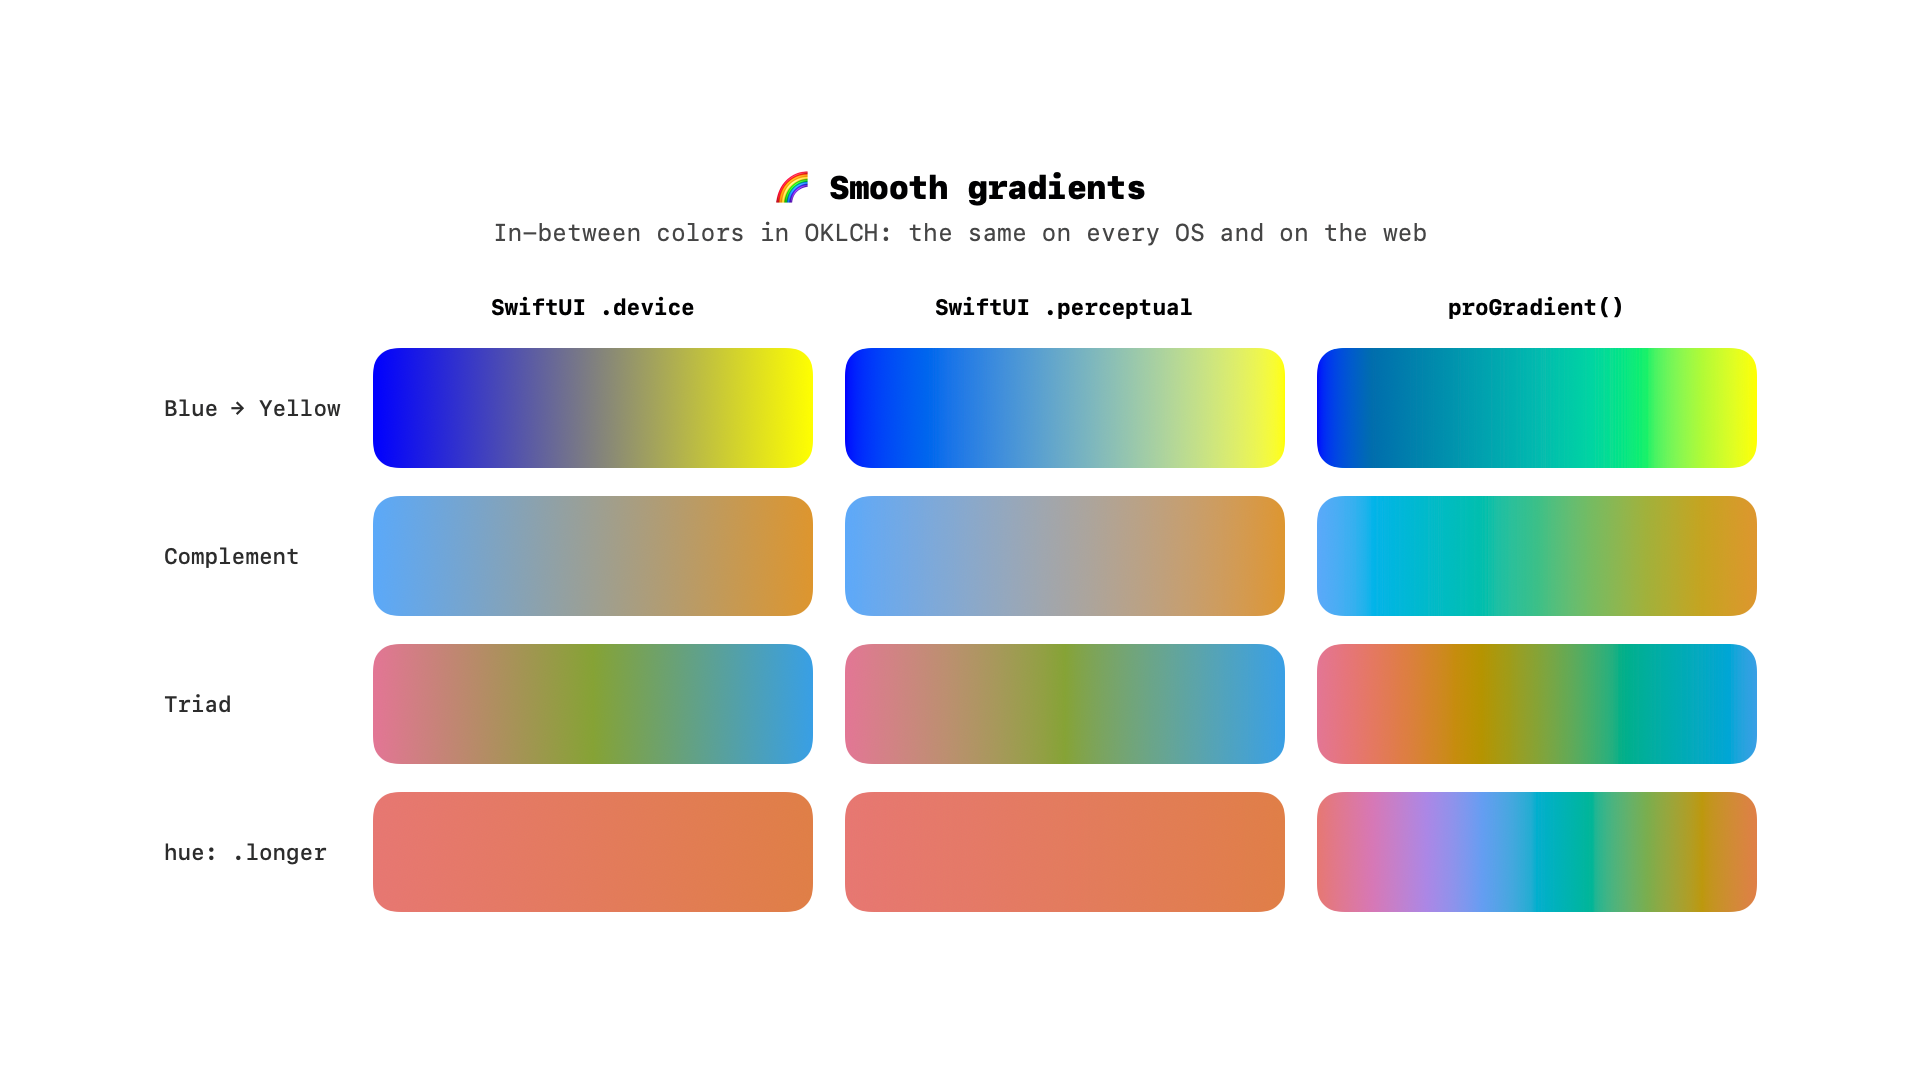
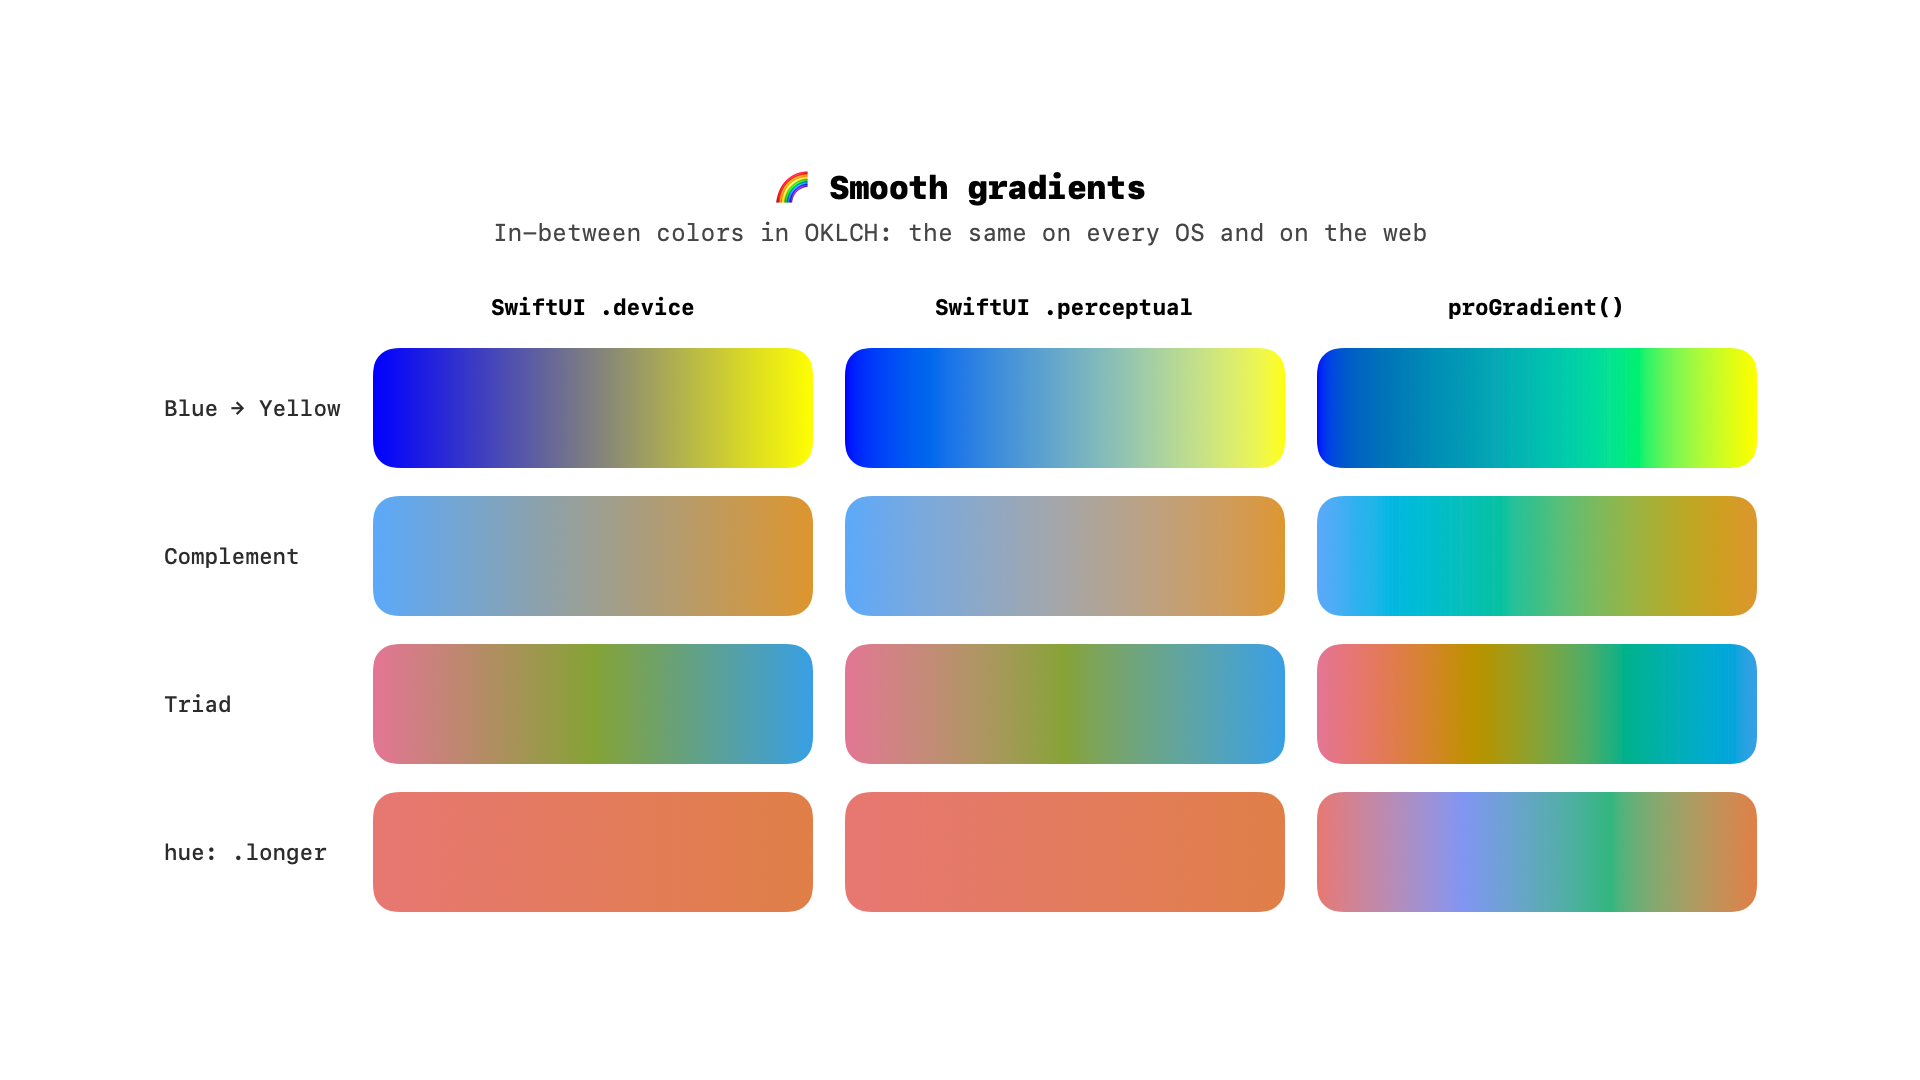
Show every gradient recipe; describe SwiftUI's gradients as measured
- gradient-recipes.png: each recipe (subtle, fade, tonal, analogous, wash,
  sheen, edgeHighlight) where you'd typically use it, plus a custom one,
  with the code under each. Shown above the recipes table.
- smooth-gradients.png re-rendered after the step and gamut changes.
- README and ProGradient: SwiftUI's default gradient on iOS is
  .perceptual, which measures as exactly OKLab on iOS 17, 18, 26 and 27
  (blue to yellow midpoint #6cabc7 in every simulator); only .device
  goes gray.

Changed region(s): [[0.75, 0.7333, 0.9062, 0.8556]]

diff --git a/Tests/ColorTokensKitTests/Marketing/Views/GradientRecipesView.swift b/Tests/ColorTokensKitTests/Marketing/Views/GradientRecipesView.swift
@@ -1,0 +1,115 @@
+import ColorTokensKit
+import SwiftUI
+
+extension ProGradient.Recipe {
+    /// The custom recipe shown in the last tile.
+    static var deepen: Self {
+        Self { [$0, $0.darken(by: 4)] }
+    }
+}
+
+/// README image: every gradient recipe, shown where you'd typically use it.
+struct GradientRecipesView: View {
+    private let brand = Color.proViolet
+    private var accent: Color { brand._500.toColor() }
+
+    var body: some View {
+        VStack(spacing: 40) {
+            VStack(spacing: 12) {
+                Text("🎨 Gradient recipes")
+                    .font(.system(size: 32, weight: .black))
+                    .foregroundStyle(Color.foregroundPrimary)
+                Text("One color in, a gradient out")
+                    .font(.system(size: 24, weight: .regular))
+                    .foregroundStyle(Color.foregroundTertiary)
+            }
+
+            Grid(horizontalSpacing: 28, verticalSpacing: 32) {
+                GridRow {
+                    tile(".subtle", "accent.proGradient()") {
+                        Text("Continue")
+                            .font(.system(size: 26, weight: .bold))
+                            .foregroundStyle(.white)
+                            .padding(.horizontal, 48)
+                            .padding(.vertical, 20)
+                            .background(accent.proGradient(), in: Capsule())
+                    }
+                    tile(".fade", "accent.proRadialGradient(.fade)") {
+                        Circle()
+                            .fill(accent.proRadialGradient(.fade))
+                            .frame(width: 200, height: 200)
+                    }
+                    tile(".tonal", "brand.proGradient(.tonal)") {
+                        card(fill: AnyShapeStyle(brand.proGradient(.tonal)), text: .white)
+                    }
+                    tile(".analogous", "brand.proGradient(.analogous, …)") {
+                        card(fill: AnyShapeStyle(brand.proGradient(.analogous, from: .leading, to: .trailing)), text: .white)
+                    }
+                }
+                GridRow {
+                    tile(".wash", "brand.proGradient(.wash)") {
+                        card(fill: AnyShapeStyle(brand.proGradient(.wash)), text: brand._900.toColor())
+                    }
+                    tile(".sheen", "Color.white.proGradient(.sheen, …)") {
+                        Text("Upgrade")
+                            .font(.system(size: 26, weight: .bold))
+                            .foregroundStyle(.white)
+                            .padding(.horizontal, 48)
+                            .padding(.vertical, 20)
+                            .background(accent, in: Capsule())
+                            .overlay(Capsule().fill(Color.white.proGradient(.sheen, from: .topLeading, to: .bottomTrailing)))
+                    }
+                    tile(".edgeHighlight", "accent.proGradient(.edgeHighlight, …)") {
+                        RoundedRectangle(cornerRadius: 28)
+                            .fill(Color.white)
+                            .overlay(
+                                RoundedRectangle(cornerRadius: 28)
+                                    .strokeBorder(accent.proGradient(.edgeHighlight, from: .leading, to: .trailing), lineWidth: 5)
+                            )
+                            .frame(width: 300, height: 170)
+                    }
+                    tile("Your own", "brand.proGradient(.deepen)") {
+                        card(fill: AnyShapeStyle(brand.proGradient(.deepen)), text: .white)
+                    }
+                }
+            }
+        }
+        .fontDesign(.monospaced)
+        .padding(MarketingStyle.pagePadding)
+        .frame(maxWidth: .infinity, maxHeight: .infinity)
+        .background(Color.white)
+    }
+
+    private func tile(_ name: String, _ code: String, @ViewBuilder preview: () -> some View) -> some View {
+        VStack(spacing: 18) {
+            preview()
+                .frame(width: 360, height: 230)
+                .background(Color.proGray._100.toColor(), in: RoundedRectangle(cornerRadius: 32))
+            VStack(spacing: 6) {
+                Text(name)
+                    .font(.system(size: 24, weight: .bold))
+                    .foregroundStyle(Color.foregroundPrimary)
+                Text(code)
+                    .font(.system(size: 16, weight: .regular))
+                    .foregroundStyle(Color.foregroundTertiary)
+            }
+        }
+    }
+
+    private func card(fill: AnyShapeStyle, text: Color) -> some View {
+        RoundedRectangle(cornerRadius: 28)
+            .fill(fill)
+            .frame(width: 300, height: 170)
+            .overlay(alignment: .bottomLeading) {
+                Text("Mega")
+                    .font(.system(size: 28, weight: .black))
+                    .foregroundStyle(text)
+                    .padding(24)
+            }
+    }
+}
+
+#Preview {
+    GradientRecipesView()
+        .frame(width: ImageSize.width, height: ImageSize.height)
+}

diff --git a/Sources/ColorTokensKit/Gradients/ProGradient.swift b/Sources/ColorTokensKit/Gradients/ProGradient.swift
@@ -2,13 +2,13 @@
 //  ProGradient.swift
 //  ColorTokensKit
 //
-//  Smooth gradients. SwiftUI blends gradient colors either in the device's RGB
-//  space (`.device`), which takes distant colors through gray, or in a perceptual
-//  space it doesn't specify (`.perceptual`). ColorTokensKit adds in-between colors
-//  worked out in OKLCH, the space CSS uses for `linear-gradient(in oklch, …)`, so
-//  a gradient looks the same on every OS version and on the web, and you choose
-//  which way hues travel. It then hands back SwiftUI's own gradient types, so a
-//  smooth gradient works anywhere a gradient already does.
+//  Smooth gradients. SwiftUI's default on iOS (`.perceptual`) draws a straight
+//  line through OKLab, so distant colors meet in a paler middle; `.device` blends
+//  in RGB, through gray. ColorTokensKit adds in-between colors worked out in
+//  OKLCH, the space CSS uses for `linear-gradient(in oklch, …)`, so colors stay
+//  vivid, a gradient looks the same on every OS version and on the web, and you
+//  choose which way hues travel. It then hands back SwiftUI's own gradient types,
+//  so a smooth gradient works anywhere a gradient already does.
 //
 //      [top, bottom].proGradient()             // colors you choose
 //      brand.proGradient(.fade)                // generated from one color

diff --git a/Tests/ColorTokensKitTests/Marketing/MarketingAssets.swift b/Tests/ColorTokensKitTests/Marketing/MarketingAssets.swift
@@ -25,6 +25,7 @@ public struct MarketingAssets {
         generateSimpleCardViewDarkModeImage(in: directory)
         generatePillViewImage(in: directory)
         generateSmoothGradientsImage(in: directory)
+        generateGradientRecipesImage(in: directory)
 
         logger.info("Completed marketing asset generation")
     }
@@ -63,6 +64,12 @@ public struct MarketingAssets {
         logger.info("Generating simple card view image...")
         let view = ThemedCardView().colorScheme(.dark)
         saveImage(view, name: "simple-card-dark-mode-view", size: ImageSize.size, in: directory)
+    }
+
+    private static func generateGradientRecipesImage(in directory: URL) {
+        logger.info("Generating gradient recipes image...")
+        let view = GradientRecipesView()
+        saveImage(view, name: "gradient-recipes", size: ImageSize.size, in: directory)
     }
 
     private static func generateSmoothGradientsImage(in directory: URL) {

diff --git a/Readme.md b/Readme.md
@@ -332,7 +332,7 @@ Color.proBlue.backgroundSecondary.complement   // the color route: the same colo
 
 ![Smooth Gradients](/Assets/smooth-gradients.png)
 
-**Before:** every gradient is two or three more colors to pick, plus a start point and an end point, and distant colors can blend through gray.
+**Before:** every gradient is two or three more colors to pick, plus a start point and an end point, and distant colors meet in a pale middle, or pass through gray with `.device`.
 
 ```swift
 LinearGradient(colors: [Color("CardTop"), Color("CardBottom")], startPoint: .top, endPoint: .bottom)
@@ -350,12 +350,14 @@ glow.proGradient(.fade)                                          // fades out, k
 
 What you get:
 
-- **Smooth.** In-between colors are worked out in OKLCH, the space CSS uses for `linear-gradient(in oklch, …)`, so gradients look the same on every OS version and on the web. SwiftUI's own options either blend in the device's RGB space (`.device`), which takes distant colors through gray, or in a perceptual space it doesn't specify (`.perceptual`).
+- **Smooth.** In-between colors are worked out in OKLCH, the space CSS uses for `linear-gradient(in oklch, …)`, so gradients look the same on every OS version and on the web. SwiftUI's default on iOS (`.perceptual`) draws a straight line through OKLab, so distant colors meet in a paler middle, and `.device` blends in RGB, through gray.
 - **Drop-in.** You get SwiftUI's own `LinearGradient`, `EllipticalGradient` and `AngularGradient` back, so they go anywhere a gradient goes: `.background`, `.fill`, `.stroke`, `.foregroundStyle` for text and SF Symbols. iOS 16 and up.
 - **From one color.** Recipes turn a single color into a gradient (see the table below), and you can write your own.
 - **Your direction.** Choose which way hues travel round the color wheel: `.shorter` (the default), `.longer` for a rainbow sweep, `.increasing` or `.decreasing`.
 - **Dark mode for free.** A gradient between tokens is right in both appearances.
 - **Clean fades and rings.** A fade to `.clear` keeps its color all the way out, and angular gradients return to their first color, so there's no seam.
+
+![Gradient Recipes](/Assets/gradient-recipes.png)
 
 | Recipe | What it makes | Good for |
 |--------|---------------|----------|
